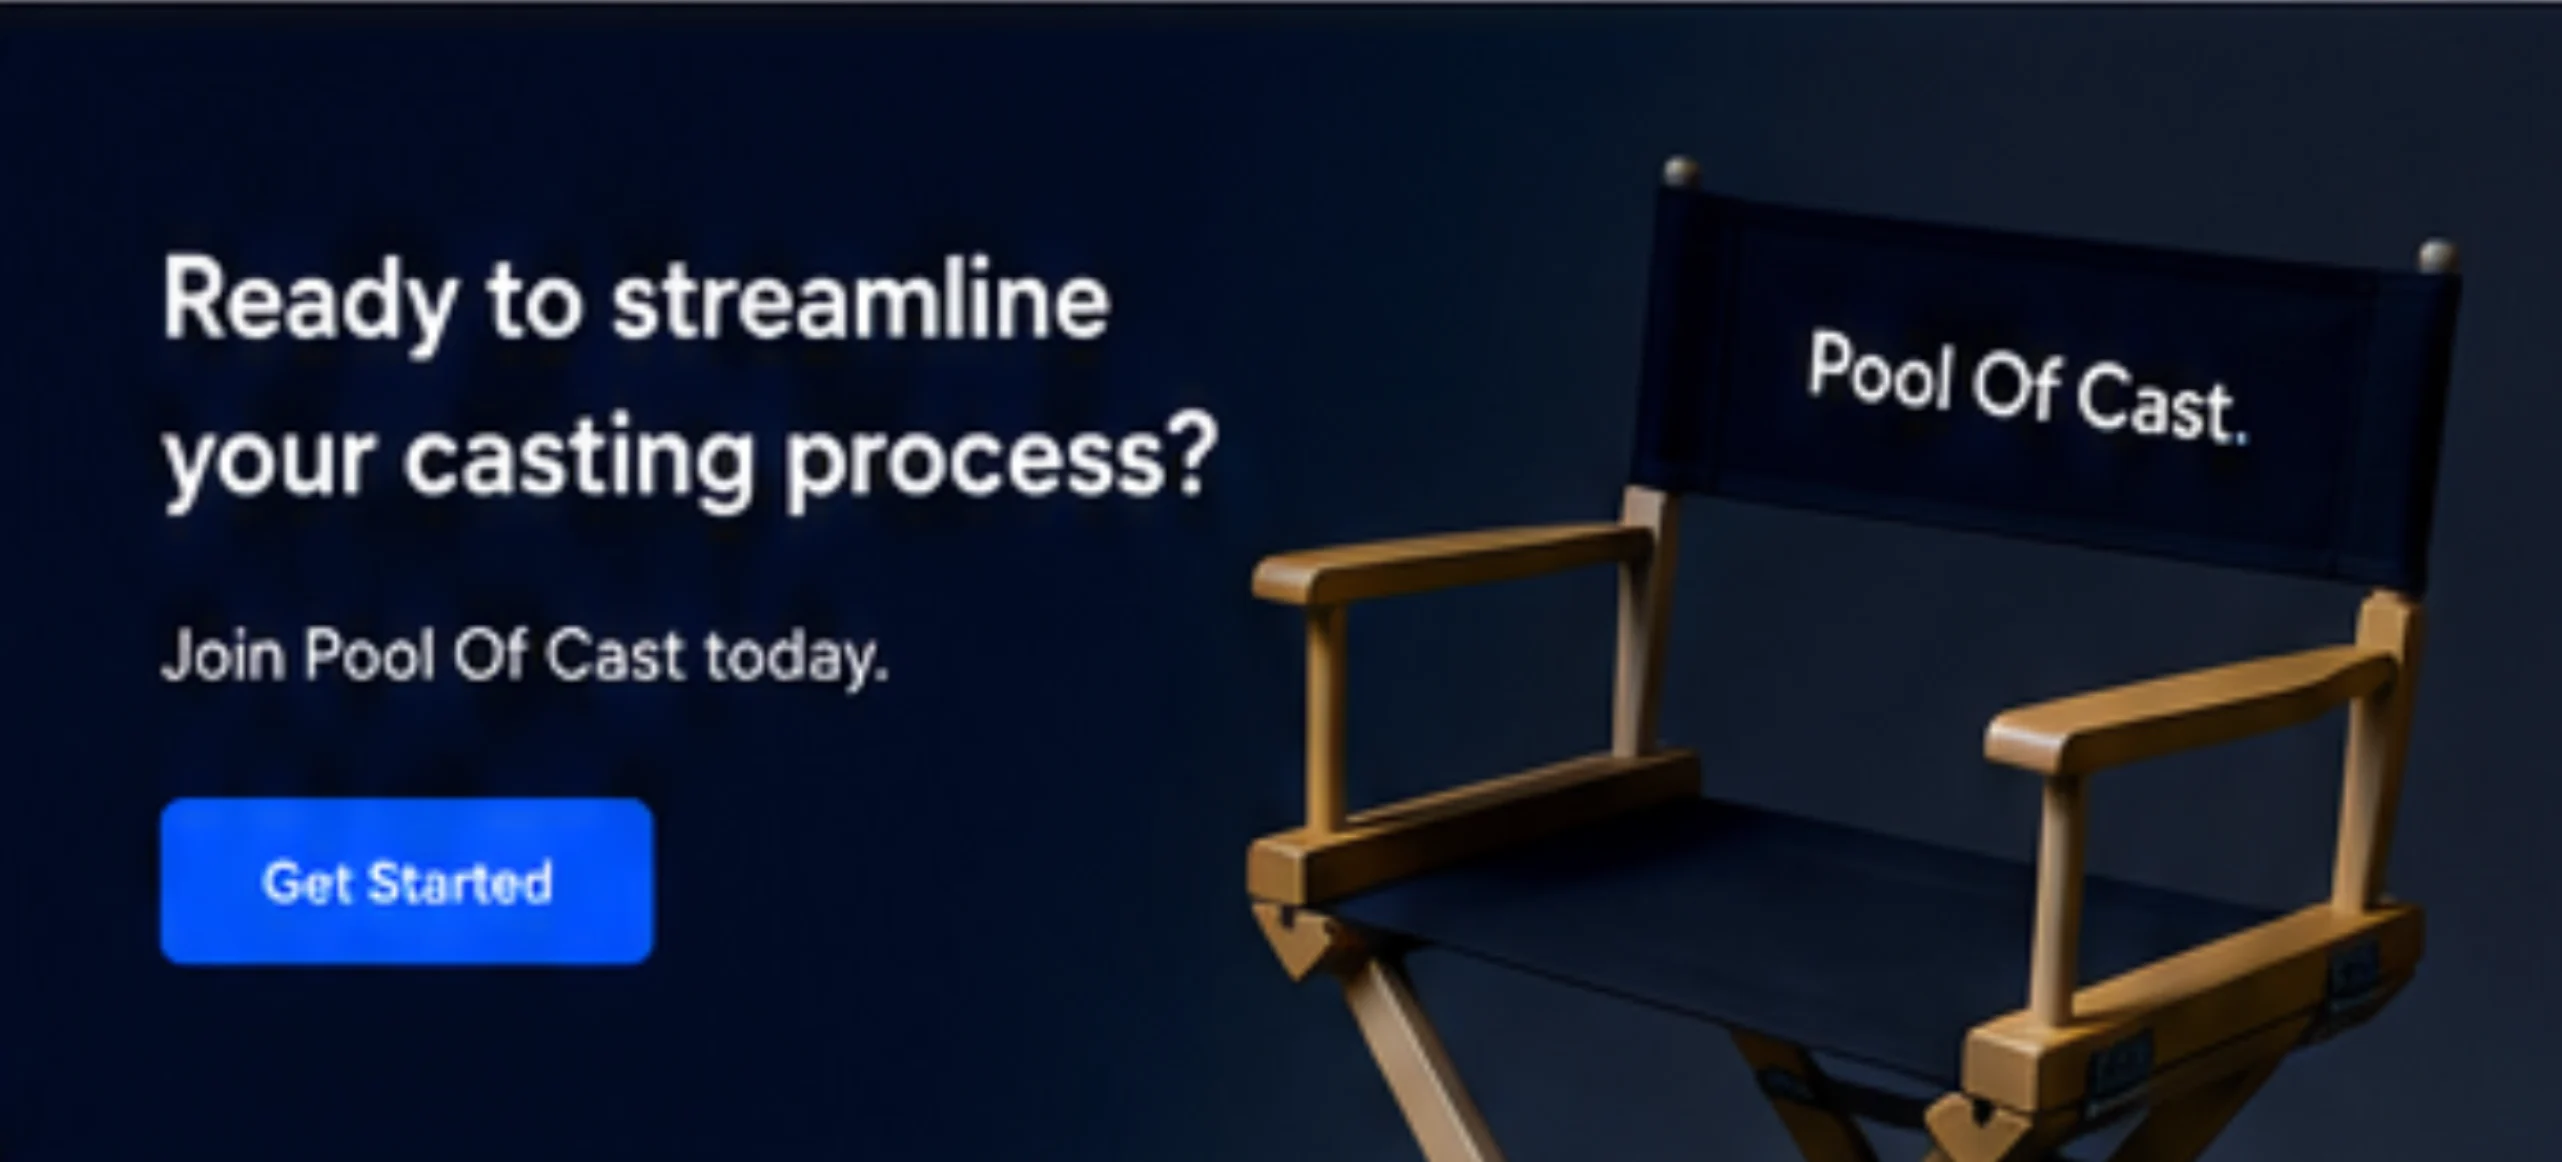
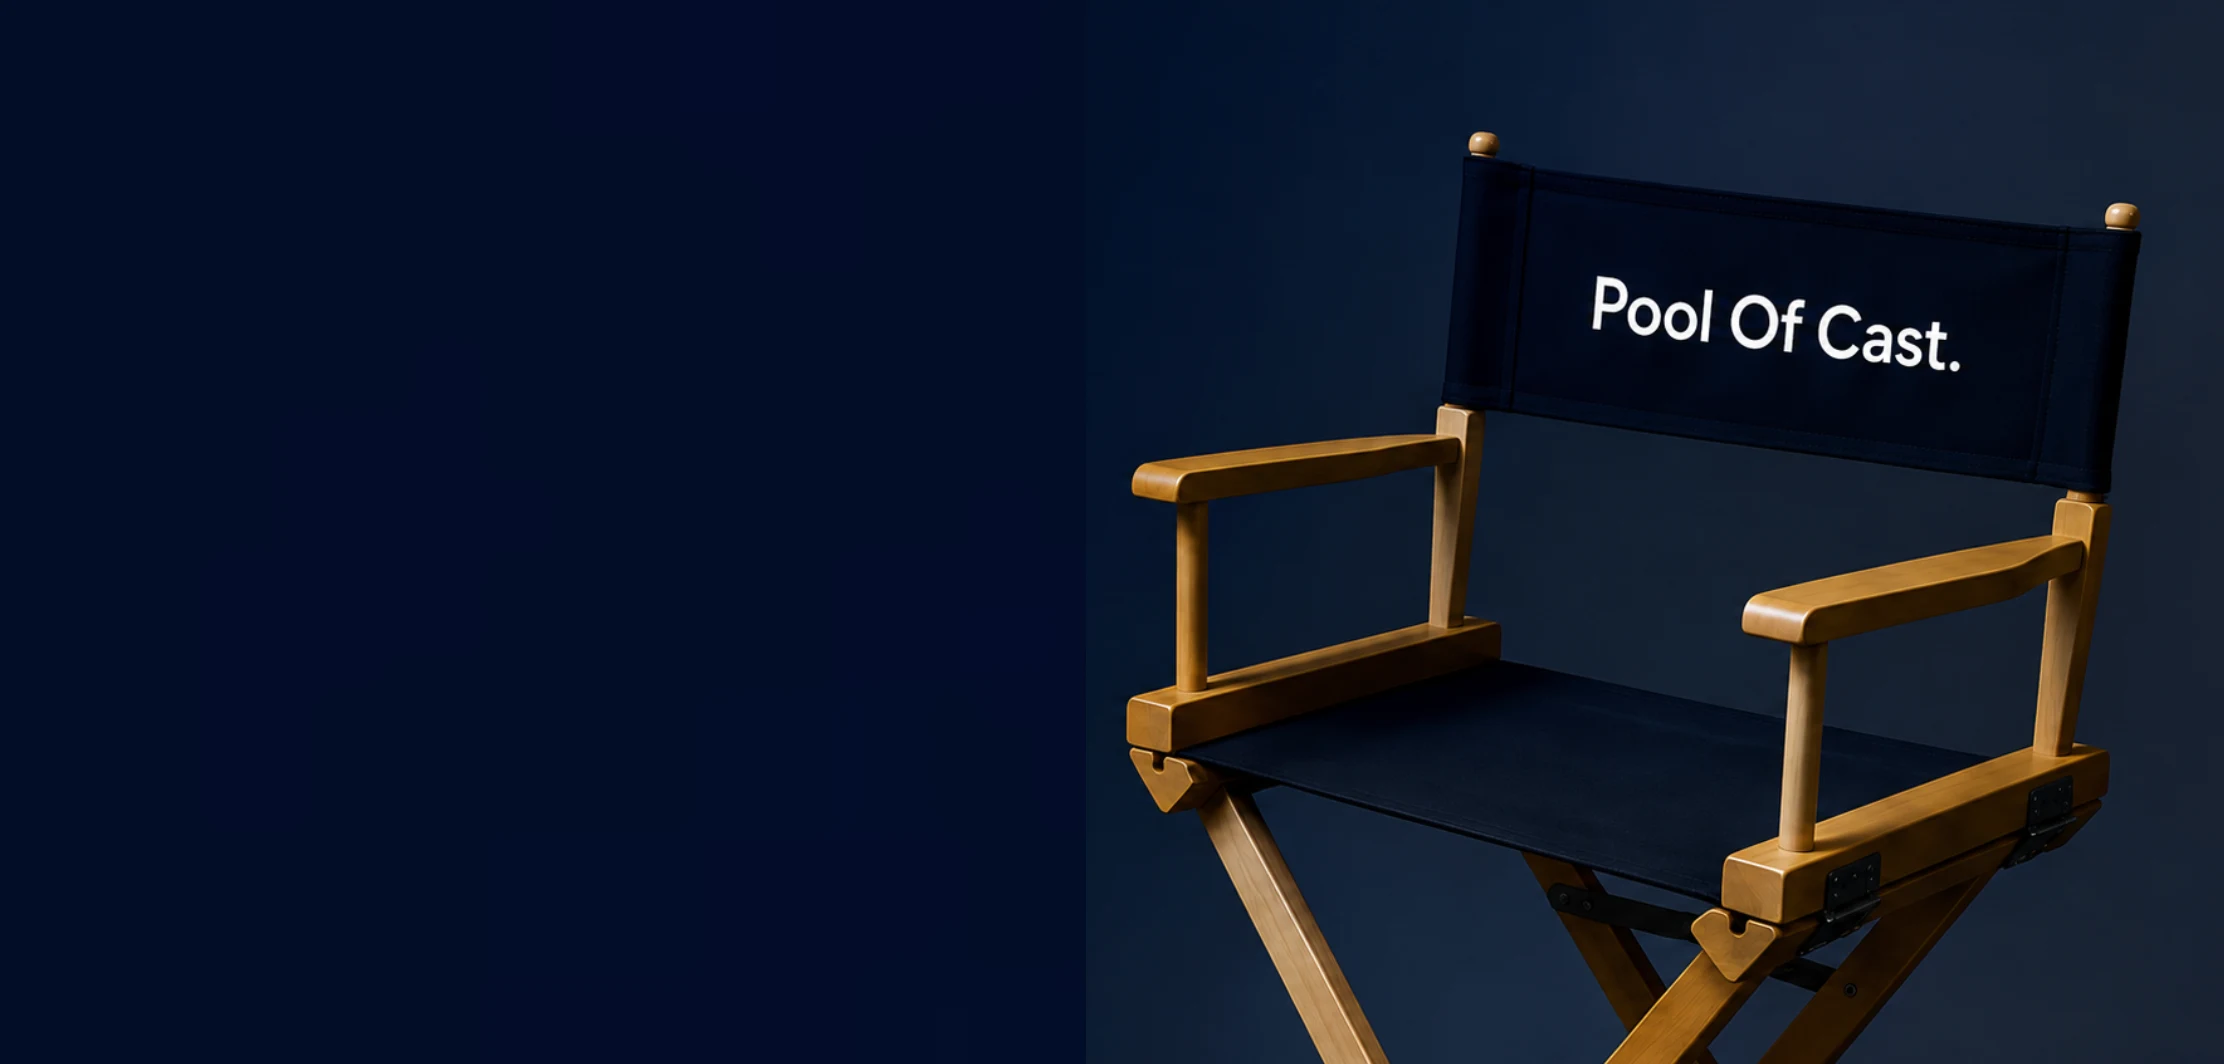
feat: add PoolOfCastSection component with background image and CTA

diff --git a/src/components/home/PoolOfCastSection.tsx b/src/components/home/PoolOfCastSection.tsx
@@ -1,0 +1,42 @@
+import Image from "next/image";
+
+const PoolOfCastSection = () => {
+  return (
+    <div className='relative w-full overflow-hidden'>
+      {/* Background Image */}
+      <Image
+        src='/join-pool.png'
+        alt='hero-bg'
+        width={0}
+        height={0}
+        sizes='100vw'
+        style={{ width: "100%", height: "80vh" }}
+        className='block'
+      />
+
+      {/* Overlay Content */}
+      <div className='absolute inset-0 flex items-center'>
+        <div className='w-full px-6 sm:px-10 md:px-14 lg:px-16 max-w-[55%] sm:max-w-[50%]'>
+          {/* Heading */}
+          <h2 className='text-white font-bold leading-tight text-2xl sm:text-3xl md:text-4xl lg:text-5xl xl:text-[3.25rem] mb-3 sm:mb-4'>
+            Ready to streamline
+            <br />
+            your casting process?
+          </h2>
+
+          {/* Subtext */}
+          <p className='text-white/80 text-sm sm:text-base md:text-lg mb-5 sm:mb-7 font-light tracking-wide'>
+            Join Pool Of Cast today.
+          </p>
+
+          {/* CTA Button */}
+          <button className='bg-blue-600 hover:bg-blue-500 active:bg-blue-700 text-white font-semibold px-6 sm:px-8 py-3 sm:py-3.5 rounded-xl text-sm sm:text-base transition-all duration-200 hover:shadow-lg hover:shadow-blue-600/30 hover:-translate-y-0.5 active:translate-y-0 cursor-pointer'>
+            Get Started
+          </button>
+        </div>
+      </div>
+    </div>
+  );
+};
+
+export default PoolOfCastSection;

diff --git a/src/app/page.tsx b/src/app/page.tsx
@@ -1,10 +1,10 @@
 import AboutSection from "@/components/home/AboutSection";
 import CTASection from "@/components/home/CTASection";
 import HeroSection from "@/components/home/HeroSection";
+import PoolOfCastSection from "@/components/home/PoolOfCastSection";
 import PowerfulFeature from "@/components/home/PowerfulFeature";
 import RolesSection from "@/components/home/RolesSection";
 import SafetySection from "@/components/home/SafetySection";
-import Image from "next/image";
 
 export default function Home() {
   return (
@@ -15,17 +15,7 @@ export default function Home() {
       <CTASection />
       <AboutSection />
       <SafetySection />
-
-      <div>
-        <Image
-          src='/join-pool.png'
-          alt='hero-bg'
-          width={0}
-          height={0}
-          sizes='100vw'
-          style={{ width: "100%", height: "auto" }}
-        />
-      </div>
+      <PoolOfCastSection />
     </>
   );
 }
